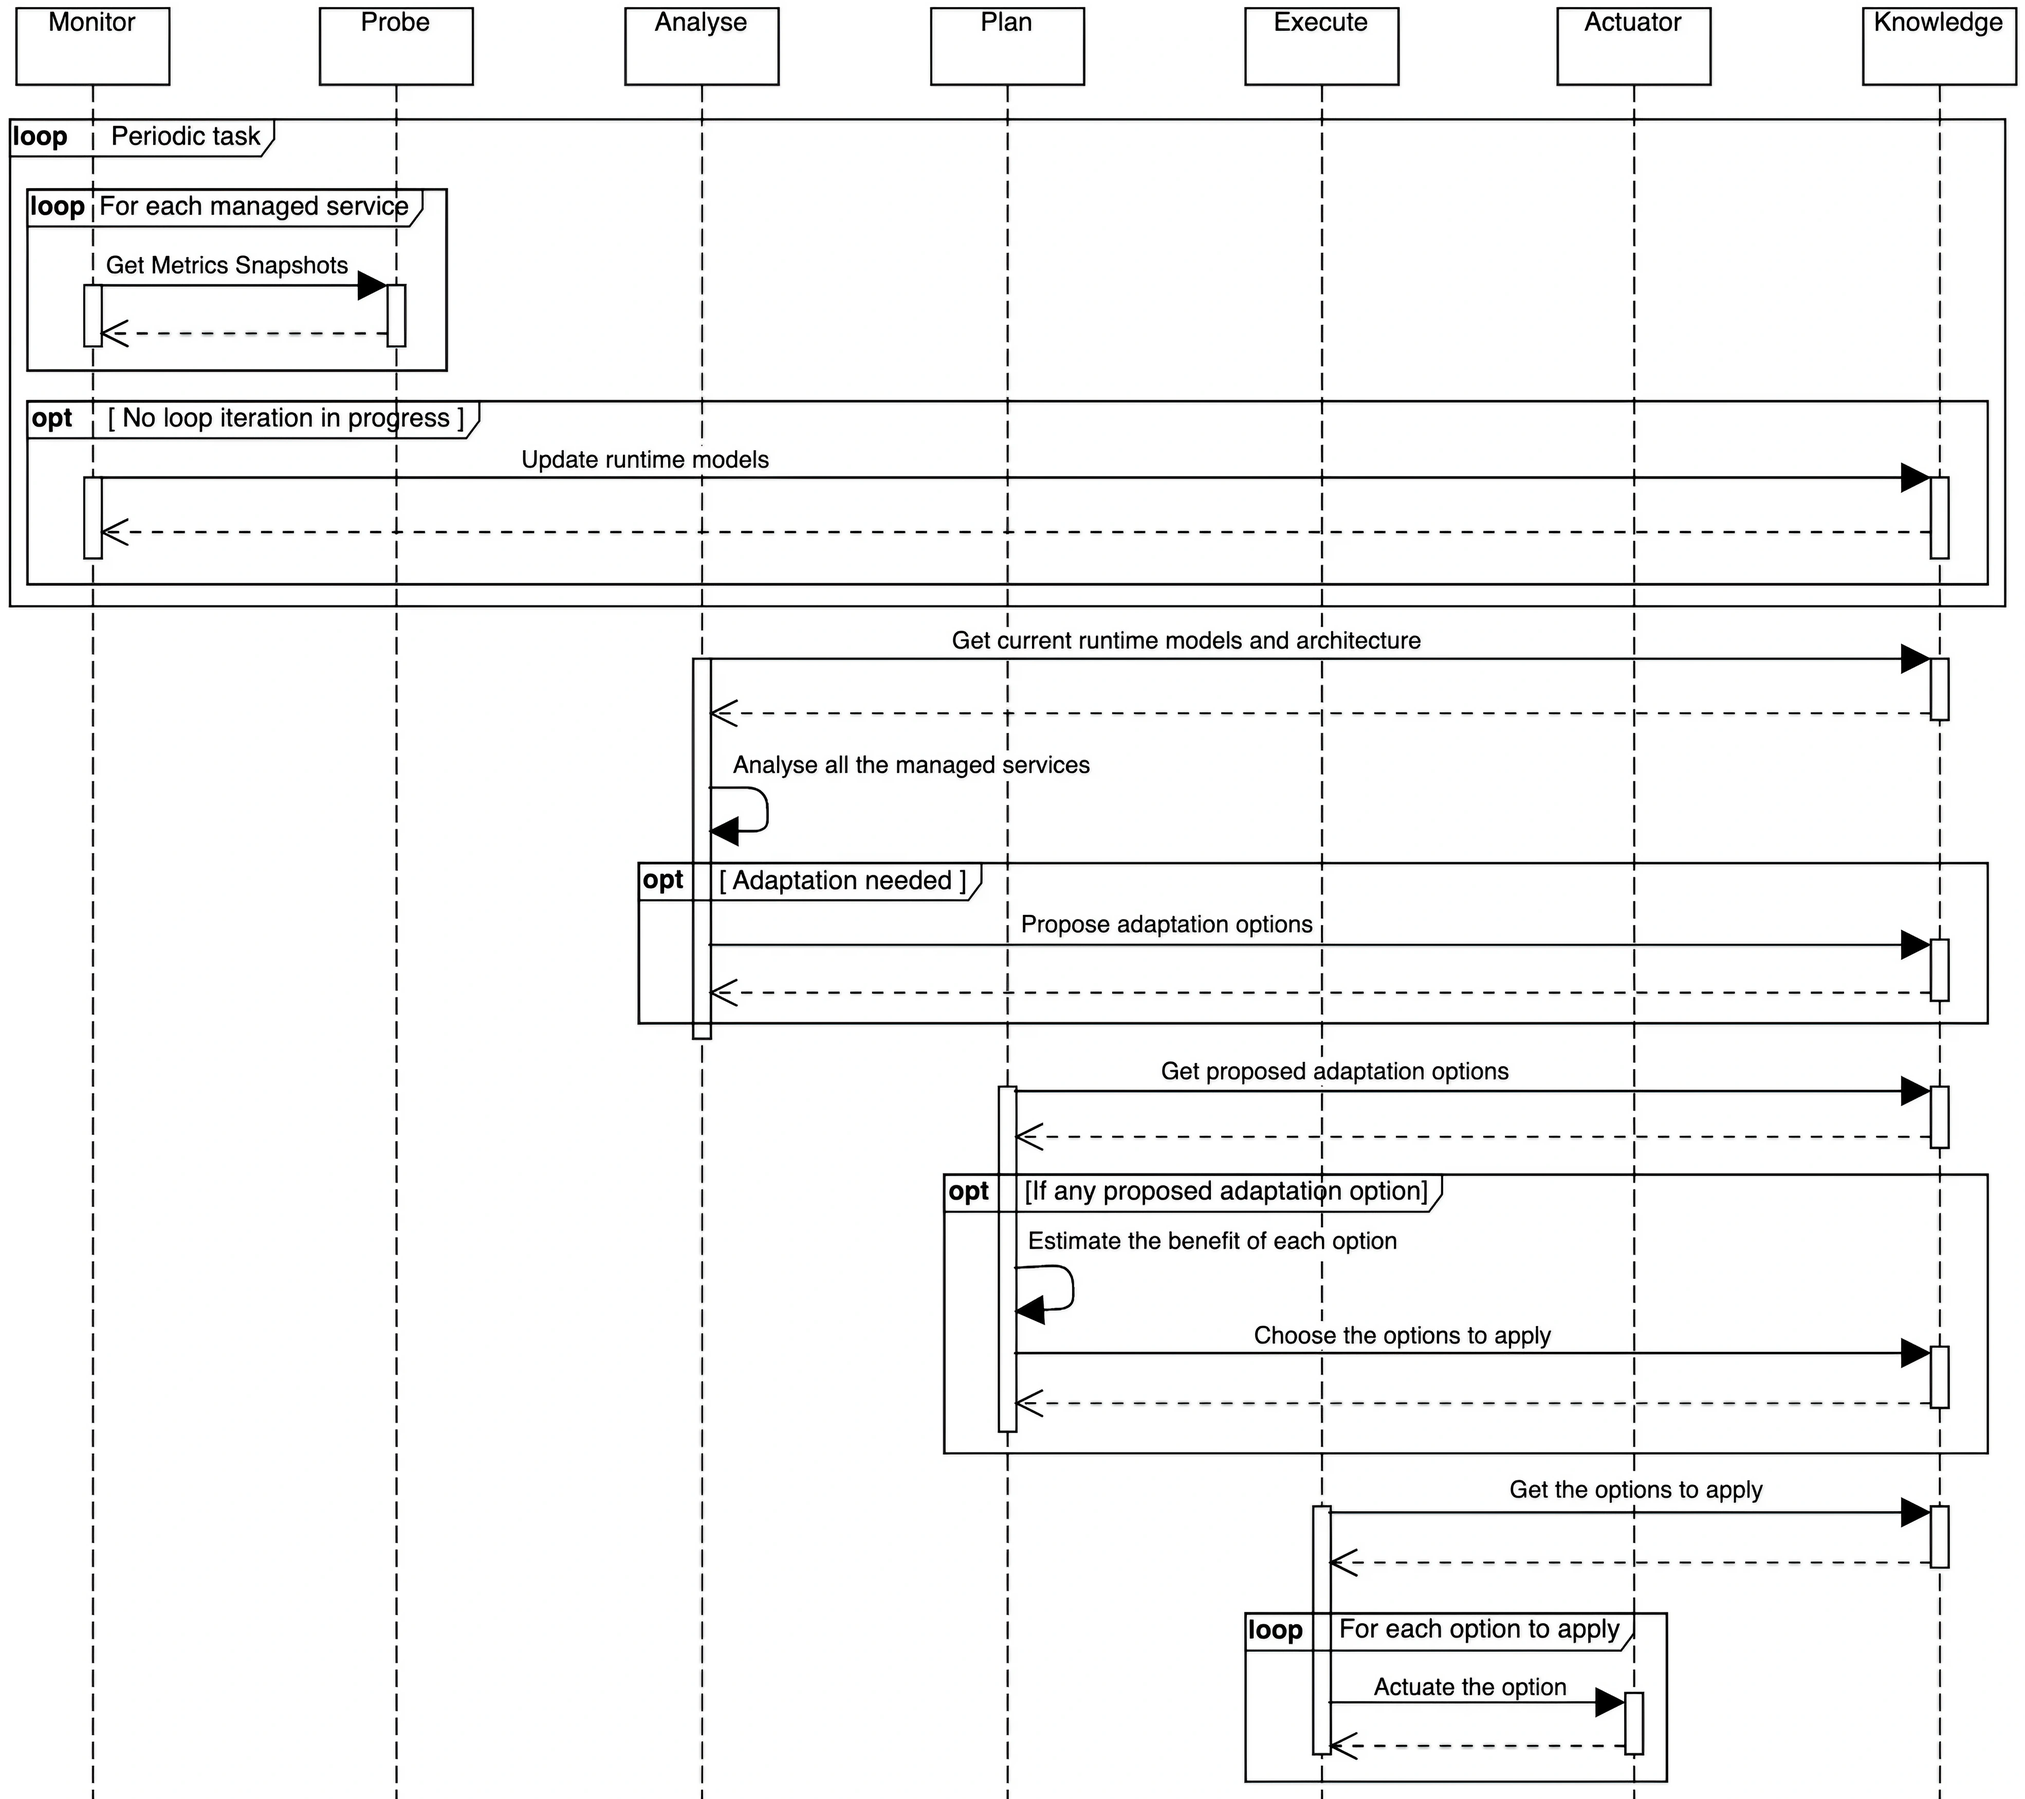
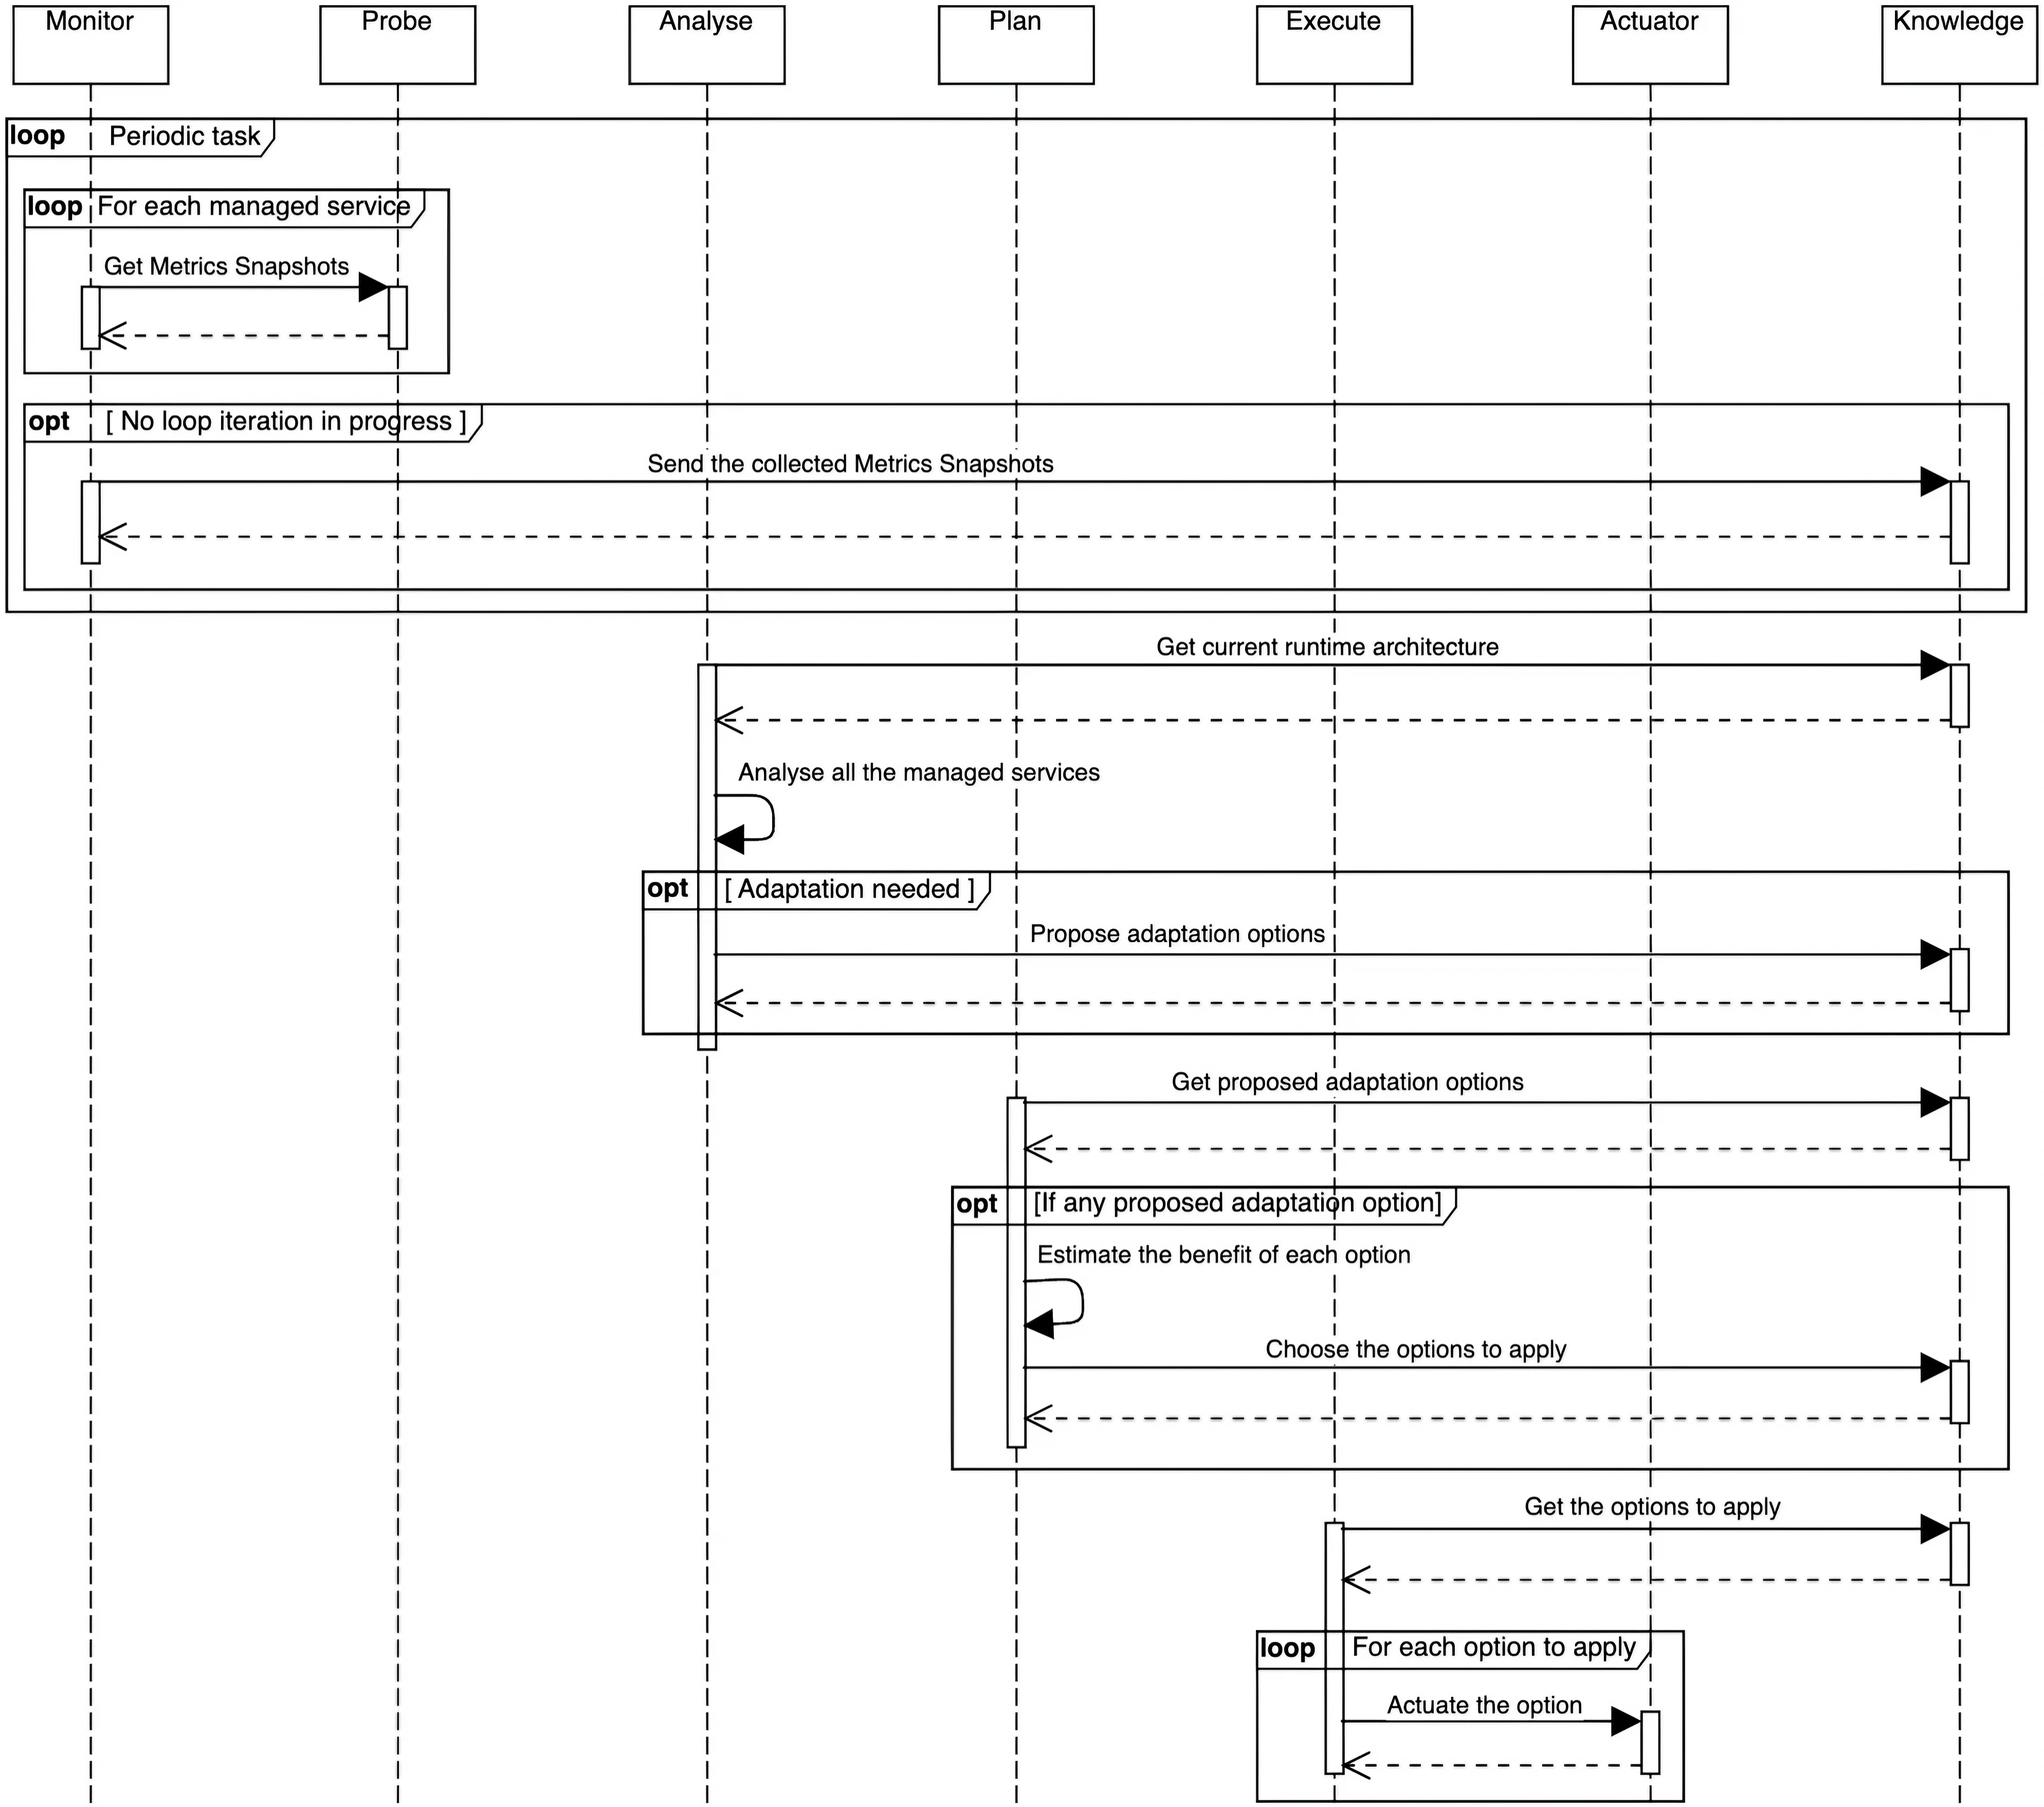
Readme

diff --git a/managing-system/README.md b/managing-system/README.md
@@ -1,6 +1,73 @@
 # RAMSES - A Reusable Autonomic Manager for MicroServicES
-MSc final thesis project by Vincenzo Riccio and Giancarlo Sorrentino.
+RAMSES is a reusable Managing System developed as part of the MSc final thesis project *Engineering of Self-Adaptive Systems: the case of RAMSES* by Vincenzo Riccio and Giancarlo Sorrentino.
 
-## Managing system architecture
+RAMSES implements a microservice-based MAPE-K loop, and it has been designed to ease the (re)use of the system by a user who wants to adapt a preexisting service-based application. It is made of configurable and extendable components, whose behaviour does not depend on the specific Managed System to be adapted. It is implemented in Java using the Spring Boot and Spring Cloud frameworks. 
 
-Work in progress.
+The design of RAMSES was driven by the adaptation scenarios described in the following table.
+
+|         Scenario        |       Observable properties      |    Example of adaptation    |
+|     :-------------      | :-------------  | :-------------  |
+|  S1: Violation of QoS specifications  |  Values of the QoS indicators of the service over time (e.g., availability, average response time)  |  – Change the current service implementation<br/>– Add (load balanced) instances in parallel<br/>– Shutdown of an instance with low performance<br/>– Change configuration properties |
+| S2: Service unavailable | Success or failure of each service invocation | – Change the current service implementation<br/>– Add instances in parallel |
+| S3: Better service implementation available | Properties of the service implementations | Change the current service implementation |
+
+## Managing System description
+
+### Architecture
+The architecture is represented in the figure below.
+
+![Architecture Diagram](../documents/Managing%20System/ManagingArch.png)
+
+### (External) Probe and Actuator
+As anticipated before, the main characteristic of RAMSES is being reusable with different service-based Managed Systems. To enforce this feature, RAMSES is designed to interact with the Managed System via two components: a Probe component, that allows RAMSES to retrieve all the relevant data from the Managed System, and an Actuator component, that allows RAMSES to effectively perform operations on the system. These components must be provided together with the Managed System itself, and must offer a specific set of APIs, defined by RAMSES.
+
+### Knowledge
+The Knowledge component is the one holding the system model. For this reason, it is the source of truth for the entire loop. Indeed, the other loop components interact with the Knowledge to maintain and retrieve an up-to-date runtime model of the system.
+
+### Monitor
+At each iteration, the Monitor component queries the Probe component provided by the Managed System, asking to perform a snapshot of all the instances of each service. Each snapshot contains statistics about the resource usage of the instance (e.g., CPU and disk usage), about the processed HTTP requests (e.g., response time, number of errors) and about the circuit breakers, if any. <br/>
+The Monitor routine runs periodically and asynchronously with respect to the rest of the loop: it accumulates all the snapshots in a temporally ordered buffer, and it stores them in the knowledge-base as soon as a new loop iteration starts.
+
+### Analyse
+The Analyse routine starts as soon as it is notified by the Monitor component. First of all, it analyses the status of all the instances of each managed service. If an instance is considered suitable for the next steps, the latest snapshots are processed in order to compute a new value for each QoS property.<br/>
+If undesired behaviours are detected during the analysis of a service, RAMSES may impose some **forced** adaptation options, that will be applied in any case at the end of the current loop iteration. Otherwise, for each QoS indicator, their latest values are processed in order to determine whether a service requires adaptation. If so, the Analyse component proposes some adaptation options, that will be evaluated during the Plan stage.<br/>
+For each service implementation *s*, the current RAMSES implementation includes four different types of adaptation options:
+- the *Add Instance* option, which represents the action of adding a new instance of *s*;
+- the *Shutdown Instance* option, which represents the action of shutting down the specific instance it refers to;
+- the *Change Implementation* option, which represents the action of replacing the instances of *s* with instances of the service implementation specified by the option;
+- the *Change Load Balancer Weights* option, which, for a service balanced using a *fitness proportionate selection* algorithm, represents the action of redistributing the weights associated with all the running instances of *s*.
+
+Future versions of RAMSES may extend this list by including new adaptation options.
+
+### Plan
+The Plan routine starts as soon as it is notified by the Analyse component. For each managed service, if there is at least one forced option, the non-forced ones are discarded, while all the forced ones are directly chosen. Conversely, all the options are processed and compared to extract the one estimated to bring more benefits to the service it refers to.<br/>
+The benefit of each option is computed by estimating the value that each QoS indicator is expected to have after applying option. When a service is load balanced using a *fitness proportionate selection* algorithm, the weights of the instances of the service involved are modified depending on the option to apply:
+- when an instance should be added, the Plan assigns a fraction of the total weight to the new instance, resizing the weight of the other instances;
+- when an instance should be shut down, the Plan equally redistributes its weight among the other instances;
+- when the service implementation should be changed, the Plan equally splits the total weight between the instances of the new service implementation;
+- when the weights of the running instances should be changed, the Plan redistributes the instance weights by solving a mixed integer linear programming (M-ILP) optimization problem.
+
+### Execute
+The Execute routine starts as soon as it is notified by the Plan component. For each adaptation option chosen by the Plan component, according to its type, the Execute contacts the Actuator component to effectively apply the changes required by the considered adaptation option.<br/>
+The Execute component, and consequently RAMSES itself, assumes that all the operations requested to the Actuator are eventually executed, and that all the changes of service configurations are performed within a reasonably short amount of time.
+
+### Workflow
+The workflow is represented in the figure below.
+
+![Workflow Sequence Diagram](../documents/Managing%20System/Sequence/ManagingSequenceDiagram.png)
+
+## Environment setup
+Each microservice can be run as a traditional Java application from a `.jar` artifact. The `.jar` file can be obtained running `../gradlew build` in the microservice directory and can be found under `./build/libs/COMPONENT_NAME-latest.jar`.
+
+By default, the microservices expose one port, according to the following table:
+
+|  Microservice |       Port      |
+| :-----------: | :-------------: |
+|   Dashboard   |      58000      |
+|    Monitor    |      58001      |
+|    Analyse    |      58002      |
+|     Plan      |      58003      |
+|    Execute    |      58004      |
+|   Knowledge   |      58005      |
+
+Check the `application.properties` files of each microservice for the configurable properties.

diff --git a/README.md b/README.md
@@ -3,9 +3,13 @@ MSc final thesis project by Vincenzo Riccio and Giancarlo Sorrentino.
 
 ## Project composition
 
-The project is made of:
+This project is a Self-Adaptive System made of:
 
 1. a [managed system](./managed-system/README.md), SEFA, which is the software object of adaptation.
-2. a [managing system](./managing-system/README.md), RAMSES, which is the software responsible of adapting the managed system to the different scenarios.
+2. a reusable [managing system](./managing-system/README.md), RAMSES, which is the software responsible of adapting the managed system.
 3. some simulated [third party services](./third-party-services/README.md) used by the managed system
 
+## Software Architecture
+The high-level software architecture is represented below.
+
+![High-level architecture](./documents/Managed%20System/Managing%2BManaged.png)

diff --git a/managed-system/README.md b/managed-system/README.md
@@ -1,5 +1,5 @@
 # SEFA - SErvice-based eFood Application
-MSc final thesis project by Vincenzo Riccio and Giancarlo Sorrentino.
+SEFA is a microservice application used as Managed System for the MSc final thesis project *Engineering of Self-Adaptive Systems: the case of RAMSES* by Vincenzo Riccio and Giancarlo Sorrentino.
 
 ## Project architecture and structure
 
